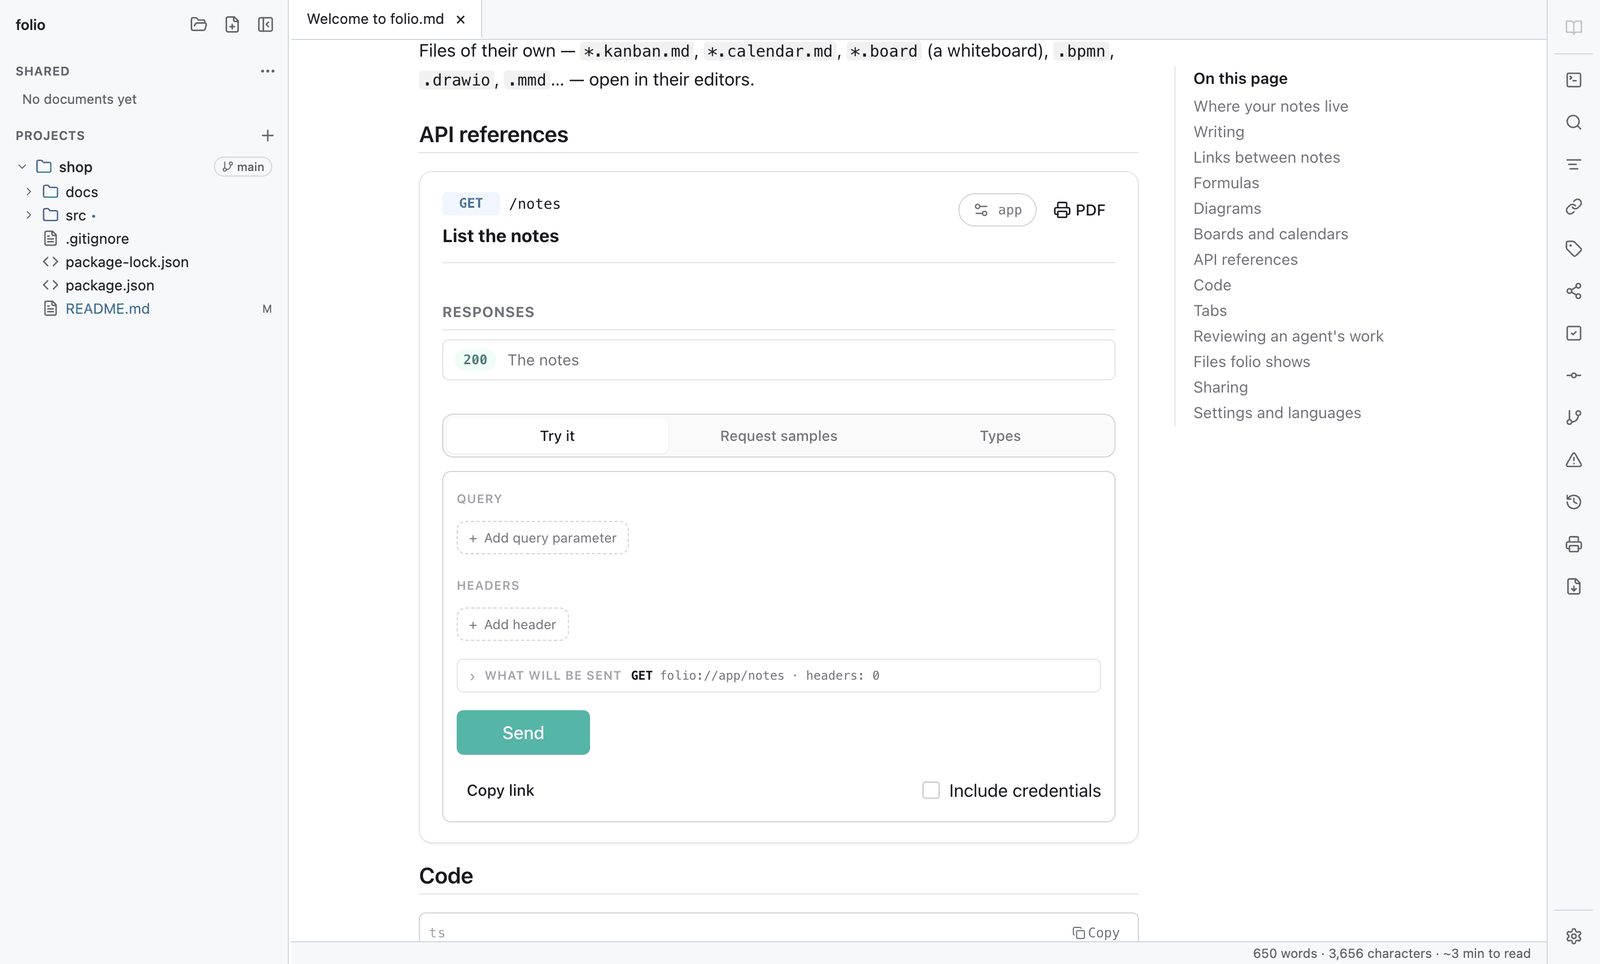
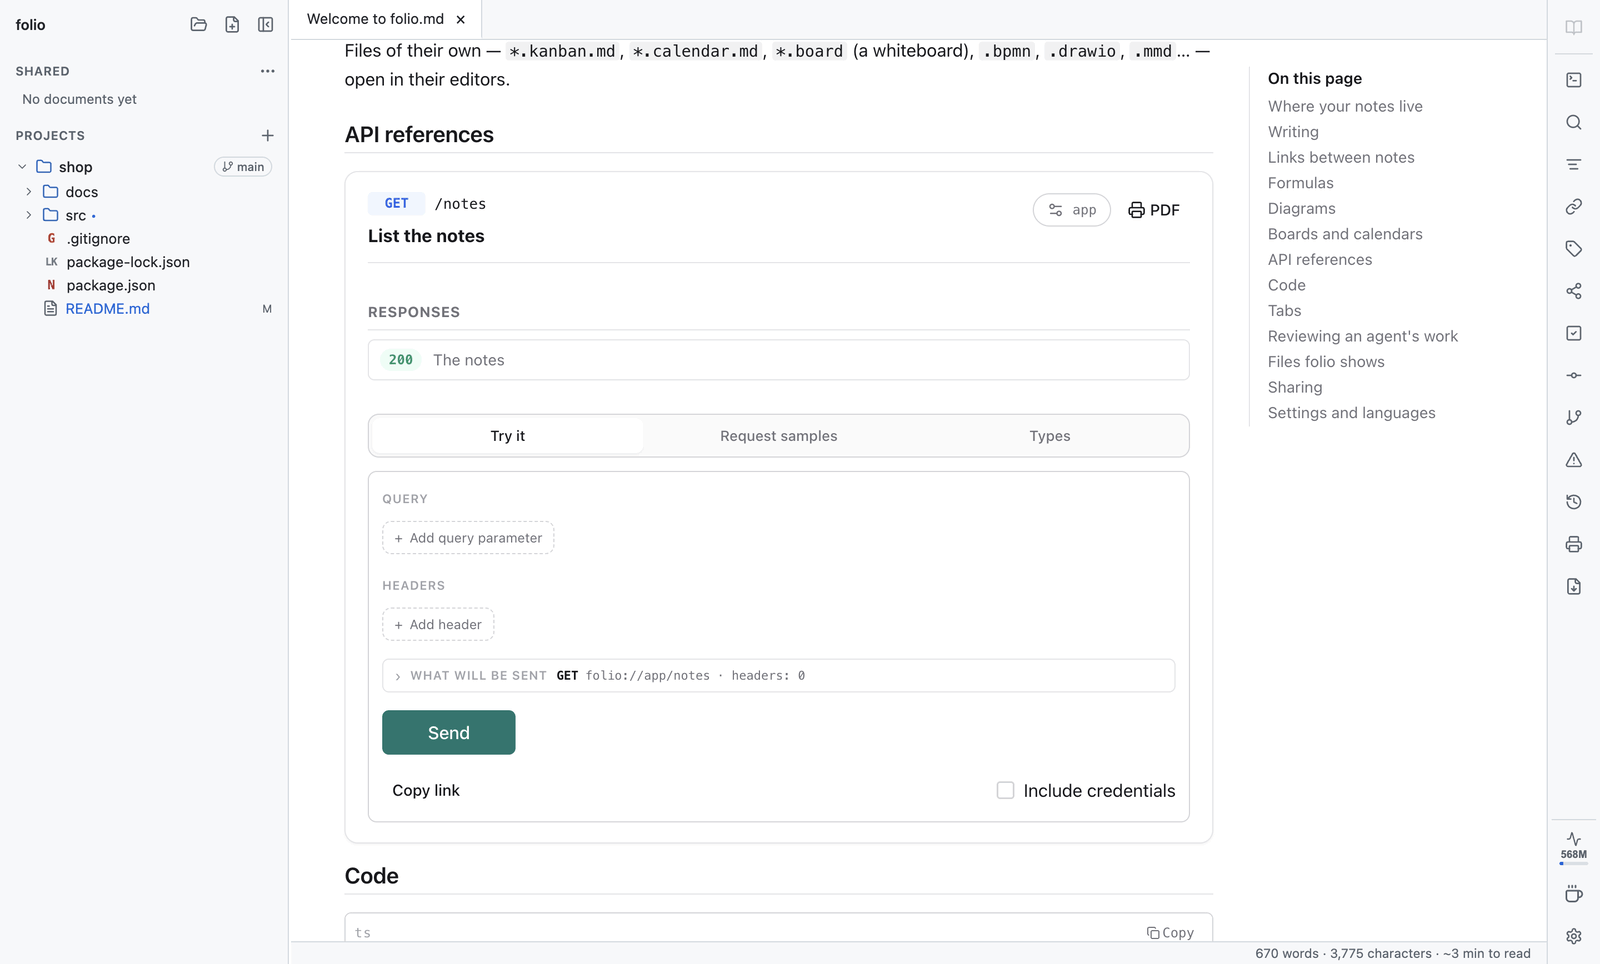
docs: 1.18 in English, Russian, German and Chinese — beside the shell terminal, pictures in the consoles, the shared journal; screenshots taken again

diff --git a/docs/de/design.md b/docs/de/design.md
@@ -814,6 +814,8 @@ eines Agenten prüfen*): folio fügt nur in ein Programm ein, das ein Einfügen 
 Ganzes nimmt — zsh, bash 5.1+, PowerShell, die CLI eines Agenten — und drückt
 nie Enter.
 
+Bilder erscheinen in einer Konsole wie in einer Terminal-App: Sixel und das kitty-Grafikprotokoll — was `chafa`, `timg` oder ein Bildbetrachter zeichnet — über den Zellen, die sie belegen, mit dem Text gescrollt, mit dem Bildschirm gelöscht; angezeigt wird nur, was in der Ausgabe kommt, nie eine Datei, die ein Programm nennt. Ein Programm, das das kitty-Tastaturprotokoll anfordert (Claude Code, neovim, helix, fish), unterscheidet Umschalt+Enter, Esc und Tasten mit Strg oder Alt; Flags, die ein Programm zurücklässt, werden beim nächsten Prompt aufgehoben, sodass Strg+C weiter die Shell erreicht. Die Marken kommen aus [`@dskripchenko/shell-integration`](https://www.npmjs.com/package/@dskripchenko/shell-integration), gemeinsam mit dem Terminal shell, und werden ganz gelesen, auch wenn eine Sequenz zwischen zwei Stücken der Ausgabe getrennt ist.
+
 ## Was folio belegt, sein Protokoll, wach bleiben
 
 **Die Anzeige** unten in der rechten Leiste zeigt den Speicher, den folio belegt —
@@ -911,6 +913,21 @@ Programme mehr als ein Gigabyte belegen, zeigt es an. Über 8 GB (**App**; 0 —
 bei fünf Minuten ausgelastetem Prozessor sagt folio es mit **Prozesse** und **Konsole
 schließen** — und tut selbst nichts: es sind nicht seine Programme.
 
+## Neben dem Terminal shell
+
+[shell](https://github.com/dskripchenko/shell) ist das Terminal desselben Autors für die Arbeit neben KI-Agenten. Sind beide auf dem Rechner, finden sie einander — und keines braucht das andere, um zu funktionieren.
+
+- **folio von der Kommandozeile**, auch ein laufendes: `folio datei:12` öffnet die Datei in Zeile 12 (auch `datei:12:3`), `--project <Ordner>` fügt den Ordner als Projekt hinzu, `--review <Repository>` öffnet das Review seiner Arbeitskopie. So öffnet shell Dateien, Projekte und Reviews in folio.
+- **Die Anwesenheit von folio**: Solange folio läuft, hält es `folio-presence.json` im Laufzeit- oder temporären Ordner des Benutzers (`FOLIO_PRESENCE` nennt einen anderen Ort) — wie es zu starten ist, was es versteht, und seine Projekte (ohne die verborgenen), damit shell sie in seinem Projektumschalter zeigt. Die Datei gehört dem Benutzer und verschwindet, wenn folio beendet wird.
+- **Tab in shell öffnen** im Menü eines Ordners oder Projekts, wenn shell läuft.
+- **In shell einfügen** in **An den Agenten senden** des Reviews: Die Kommentare gehen in den Bereich des Agenten dieses Repositorys in shell — eingefügt, nicht gesendet: Enter drückt man dort.
+- **Ein wartendes Review**: Solange ein Agent über MCP auf Ihre Antwort wartet, zeigen die Tabs von shell zu diesem Repository es an, bis es beantwortet ist.
+- **Die Farben der Konsolen** sind das Terminal-Theme von shell, bei Tag und bei Nacht, wenn shell läuft; folio behält sie für die Zeit, in der es nicht läuft.
+- **Projekt aus shell hinzufügen…** in der Befehlspalette fügt eines der Projekte von shell hinzu.
+- **Ein Journal der Bearbeitungen von Agenten**: **Claude Code mit folio verbinden** setzt denselben Hook, den auch shell setzt — nach jeder Bearbeitung hängt Claude Code eine Zeile an `.git/agent-edits.jsonl` des Repositorys an (dasselbe für seine Worktrees, nie committet), mit dem Bereich von shell, in dem der Agent läuft. Denselben Hook führt Claude Code einmal aus, wo immer er gesetzt ist; was der frühere Hook von folio schrieb, wird weiter gelesen.
+
+shell wird über seine eigene Anwesenheitsdatei gefunden (`shell-presence.json` — die des Benutzers, eines lebenden Prozesses, eine Adresse auf 127.0.0.1) und über seine lokale API mit seinem Token gefragt; sonst wird nichts gesendet.
+
 ## Wo die Daten liegen
 
 Electron legt seine Daten standardmäßig im Benutzerprofil ab. folio verlegt sie
@@ -951,6 +968,8 @@ Commit) und folios MCP-Server in Claude Codes lokale Einstellungen für das
 Projekt — **Claude Code trennen** entfernt beides. Das Löschen von folio lässt
 sie stehen. folios MCP-Server hört nur auf 127.0.0.1 und antwortet nur mit
 einem Token, das in `folio-data/review` liegt.
+
+Solange folio läuft, sagt `folio-presence.json` im Laufzeit- oder temporären Ordner des Benutzers, wo es ist (siehe *Neben dem Terminal shell*); die Datei verschwindet, wenn folio beendet wird. Die Bearbeitungen von Claude Code liegen im Repository selbst, in `.git/agent-edits.jsonl`, gelesen von folio wie von shell.
 
 ## Aktualisierungen
 

diff --git a/docs/en/design.md b/docs/en/design.md
@@ -736,6 +736,8 @@ Review comments go to a console as one paste (see *Reviewing an agent's work*):
 folio pastes only into a program that takes a paste as one — zsh, bash 5.1+,
 PowerShell, an agent's CLI — and never presses Enter.
 
+Pictures show in a console as in a terminal app: sixel and the kitty graphics protocol — what `chafa`, `timg` or an image viewer draws — over the cells they take, scrolled with the text, cleared with the screen; only what comes in the output is shown, never a file a program names. A program that asks for the kitty keyboard protocol (Claude Code, neovim, helix, fish) gets Shift+Enter, Esc and keys with Ctrl or Alt of their own; flags a program left behind are dropped at the next prompt, so Ctrl+C still reaches the shell. The marks come from [`@dskripchenko/shell-integration`](https://www.npmjs.com/package/@dskripchenko/shell-integration), shared with the shell terminal, and are read whole even when a sequence is cut between two pieces of output.
+
 ## What folio takes, its log, staying awake
 
 **The gauge** at the bottom of the right rail shows the memory folio takes — the
@@ -829,6 +831,21 @@ programs take more than a gigabyte shows it. Past 8 GB (**App**; 0 — never), o
 the processor busy for five minutes, folio says so with **Processes** and **Close
 the console** — and does nothing by itself: they are not its programs.
 
+## Beside the shell terminal
+
+[shell](https://github.com/dskripchenko/shell) is the same author's terminal for working beside AI agents. When both are on the machine they find each other, and neither needs the other to work.
+
+- **folio from the command line**, a running one too: `folio file:12` opens the file at line 12 (`file:12:3` as well), `--project <folder>` adds the folder as a project, `--review <repository>` opens the review of its working copy. shell opens files, projects and reviews in folio this way.
+- **folio's presence**: while folio runs it keeps `folio-presence.json` in the user's runtime or temporary folder (`FOLIO_PRESENCE` names another place) — how to start it, what it understands and its projects (not the hidden ones), so shell lists them in its project switcher. The file is the user's own and goes when folio quits.
+- **Open a Tab in shell** in a folder's or a project's menu, when shell runs.
+- **Paste into shell** in the review's **Send to the agent**: the comments go into the agent's pane of the repository in shell — pasted, not sent: Enter is pressed there.
+- **A review waiting**: while an agent waits over MCP for your answer, shell's tabs of the repository say so, until it is answered.
+- **The consoles' colours** are shell's terminal theme, by day and by night, when shell runs; folio keeps them for when it does not.
+- **Add a Project from shell…** in the command palette adds one of shell's projects.
+- **One journal of agents' edits**: **Connect Claude Code to folio** adds the hook that shell adds too — after each edit Claude Code appends a line to `.git/agent-edits.jsonl` of the repository (the same for its worktrees, never committed), with the shell pane the agent runs in. Claude Code runs the same hook once, wherever it is set; edits folio's older hook wrote are still read.
+
+shell is found by its own presence file (`shell-presence.json`, the user's own, of a live process, an address on 127.0.0.1) and asked over its local API with its token; nothing else is sent.
+
 ## Where the data lives
 
 Electron keeps its data in the user profile by default. folio moves all of it —
@@ -865,6 +882,8 @@ settings from the settings window go to its `.folio/settings.json`, and
 server to Claude Code's local settings for the project — **Disconnect Claude
 Code** takes both out. Deleting folio leaves them. folio's MCP server listens
 on 127.0.0.1 only, and answers only with a token kept in `folio-data/review`.
+
+While folio runs, `folio-presence.json` in the user's runtime or temporary folder says where it is (see *Beside the shell terminal*); it goes when folio quits. Claude Code's edits are kept in the repository's own `.git/agent-edits.jsonl`, read by folio and shell alike.
 
 ## Updates
 

diff --git a/README.md b/README.md
@@ -11,7 +11,7 @@ notation, OpenAPI and AsyncAPI references, BPMN and DMN, draw.io, process
 flows, kanban boards, calendars and whiteboards, slides — on macOS, Windows and Linux, without
 installing anything.
 
-> Status: **1.8.** It reads a Markdown file with every block live, offline;
+> Status: **1.18.** It reads a Markdown file with every block live, offline;
 > edits it visually or as Markdown, keeping quick notes and unsaved edits
 > through restarts; keeps a git history per folder; links notes with
 > `[[links]]`, tags, aliases, embeds, a graph and a tasks panel; opens diagram,
@@ -25,8 +25,10 @@ installing anything.
 > prints and exports PDF;
 > runs consoles; reviews an AI agent's work — changes as a pull request,
 > what changed since the last look, its worktrees, comments sent to its
-> console; keeps tabs in coloured groups; speaks English and Russian (and
-> languages of your own); and updates itself.
+> console, an agent's answer awaited over MCP; shows pictures in its consoles;
+> keeps tabs in coloured groups; works hand in hand with the
+> [shell](https://github.com/dskripchenko/shell) terminal when it is there;
+> speaks English and Russian (and languages of your own); and updates itself.
 
 Documentation: [English](docs/en/) · [Русский](docs/ru/) · [Deutsch](docs/de/) ·
 [中文](docs/zh/)
@@ -191,6 +193,14 @@ The same rules as [portable](https://github.com/dskripchenko/portable):
 | 17 | An agent asks for a review over MCP and waits for the answer — **1.8** |
 | 18 | A tab's file shown in the tree, console tabs coloured and grouped, the wheel by rows — **1.9** |
 | 19 | Files marked by type in their stack's colour, the review's files as a tree — **1.10** |
+| 20 | What folio takes, a log, memory limits, keeping the computer awake — **1.11** |
+| 21 | Notifications from the consoles, after a crash, little room on the disk — **1.12** |
+| 22 | The text's size, zoom when reading, the page's whole width, its own tooltips — **1.13** |
+| 23 | A command line with `file:line`, `--project`, `--review`; folio's presence for other programs — **1.14** |
+| 24 | The shell terminal: a tab in a folder, review comments to its agent's pane, a waiting review on its tabs; the kitty keyboard protocol — **1.15** |
+| 25 | One journal of agents' edits with shell (`.git/agent-edits.jsonl`) — **1.16** |
+| 26 | The consoles in shell's colours, projects both ways — **1.17** |
+| 27 | Pictures in the consoles (sixel, kitty); shell integration from its package — **1.18** |
 
 ## Development
 

diff --git a/docs/ru/README.md b/docs/ru/README.md
@@ -6,7 +6,7 @@
 изменения — как пулл-реквест, то, что изменилось с последнего просмотра, его
 worktree, замечания прямо в его консоль.
 
-> Статус: **1.8** — архив для вашей системы — в [последнем выпуске](https://github.com/dskripchenko/folio/releases/latest).
+> Статус: **1.18** — архив для вашей системы — в [последнем выпуске](https://github.com/dskripchenko/folio/releases/latest).
 
 - [Как устроено](design.md) — окна, что может документ, где лежат данные
 - [Разработка](development.md) — сборка, запуск и тесты
@@ -19,3 +19,11 @@ worktree, замечания прямо в его консоль.
   удалили папку — folio удалён полностью.
 - Документу не доверяют: он видит только свою папку и ходит в сеть только с
   вашего согласия.
+
+## Рядом с терминалом shell
+
+Когда на компьютере есть и терминал [shell](https://github.com/dskripchenko/shell),
+они находят друг друга: shell открывает в folio файлы, проекты и ревью; folio
+открывает вкладку в shell, отправляет замечания ревью в панель агента там и
+берёт для консолей цвета shell; журнал того, какой агент что правил, у обоих
+один. Подробнее — *Рядом с терминалом shell* в [Как устроено](design.md).

diff --git a/docs/zh/README.md b/docs/zh/README.md
@@ -3,7 +3,7 @@
 一款桌面应用，用于阅读、编辑和打印带有实时图表、API 参考和编辑器的 Markdown——
 支持 macOS、Windows 和 Linux，无需安装。同时也是一个轻量 IDE，适合与终端中的 AI 智能体配合使用：像审阅拉取请求一样审阅它的更改、查看自上次查看以来的变化、管理它的 worktree、把评论直接发送到它的控制台。
 
-> 状态：**1.8** —— 从[最新版本](https://github.com/dskripchenko/folio/releases/latest)下载适合你系统的压缩包。
+> 状态：**1.18** —— 从[最新版本](https://github.com/dskripchenko/folio/releases/latest)下载适合你系统的压缩包。
 
 - [工作原理](design.md) —— 窗口、文档能做什么、数据存放在哪里
 - [开发](development.md) —— 构建、运行和测试
@@ -13,3 +13,10 @@
 - 无需安装程序，也无需管理员权限：Windows 和 macOS 上是 zip，Linux 上是 AppImage。
 - 设置、缓存和窗口状态都位于程序旁边的 `folio-data/` 中；删除该文件夹即可完全移除 folio。
 - 文档不受信任：它只能看到自己所在的文件夹，只有经你同意才能访问网络。
+
+## 与 shell 终端配合
+
+当电脑上也有 [shell](https://github.com/dskripchenko/shell) 终端时，两者会自动找到对方：shell
+在 folio 中打开文件、项目和审阅；folio 在 shell 中打开标签、把审阅意见发到那里智能体所在的
+窗格，并让控制台使用 shell 的颜色；两者共用一份“哪个智能体改了什么”的日志。详见
+[工作原理](design.md) 中的 *与 shell 终端配合*。

diff --git a/docs/de/README.md b/docs/de/README.md
@@ -6,7 +6,7 @@ Installation. Dazu eine leichte IDE für die Arbeit neben einem KI-Agenten im
 Terminal: seine Änderungen als Pull-Request geprüft, was sich seit dem letzten
 Blick geändert hat, seine Worktrees, Kommentare direkt in seine Konsole.
 
-> Status: **1.8** — das Archiv für Ihr System liegt in der [neuesten Version](https://github.com/dskripchenko/folio/releases/latest).
+> Status: **1.18** — das Archiv für Ihr System liegt in der [neuesten Version](https://github.com/dskripchenko/folio/releases/latest).
 
 - [Wie es funktioniert](design.md) — die Fenster, was ein Dokument darf, wo die
   Daten liegen
@@ -20,3 +20,12 @@ Blick geändert hat, seine Worktrees, Kommentare direkt in seine Konsole.
   Programm; den Ordner löschen entfernt folio vollständig.
 - Einem Dokument wird nicht vertraut: Es sieht nur seinen eigenen Ordner und
   erreicht das Netz nur mit Ihrer Zustimmung.
+
+## Neben dem Terminal shell
+
+Ist auch das Terminal [shell](https://github.com/dskripchenko/shell) auf dem
+Rechner, finden die beiden einander: shell öffnet Dateien, Projekte und Reviews
+in folio; folio öffnet einen Tab in shell, schickt Review-Kommentare in den
+Bereich des Agenten dort und übernimmt die Farben von shell für seine Konsolen;
+beide führen ein gemeinsames Journal, welcher Agent was bearbeitet hat. Mehr
+unter *Neben dem Terminal shell* in [Wie es funktioniert](design.md).

diff --git a/docs/en/README.md b/docs/en/README.md
@@ -6,7 +6,7 @@ anything. Also a light IDE made to sit beside an AI agent in a terminal: its
 changes reviewed as a pull request, what changed since the last look, its
 worktrees, comments sent to its console.
 
-> Status: **1.8** — download the archive for your system from the [latest release](https://github.com/dskripchenko/folio/releases/latest).
+> Status: **1.18** — download the archive for your system from the [latest release](https://github.com/dskripchenko/folio/releases/latest).
 
 - [How it works](design.md) — the windows, what a document may do, where the
   data lives
@@ -20,3 +20,11 @@ worktrees, comments sent to its console.
   deleting the folder removes folio completely.
 - A document is not trusted: it sees only its own folder and reaches the
   network only with your consent.
+
+## Beside the shell terminal
+
+When the [shell](https://github.com/dskripchenko/shell) terminal is on the
+machine too, the two find each other: shell opens files, projects and reviews
+in folio; folio opens a tab in shell, sends review comments to the agent's pane
+there and shows shell's colours in its consoles; both keep one journal of which
+agent edited what. See *Beside the shell terminal* in [How it works](design.md).
